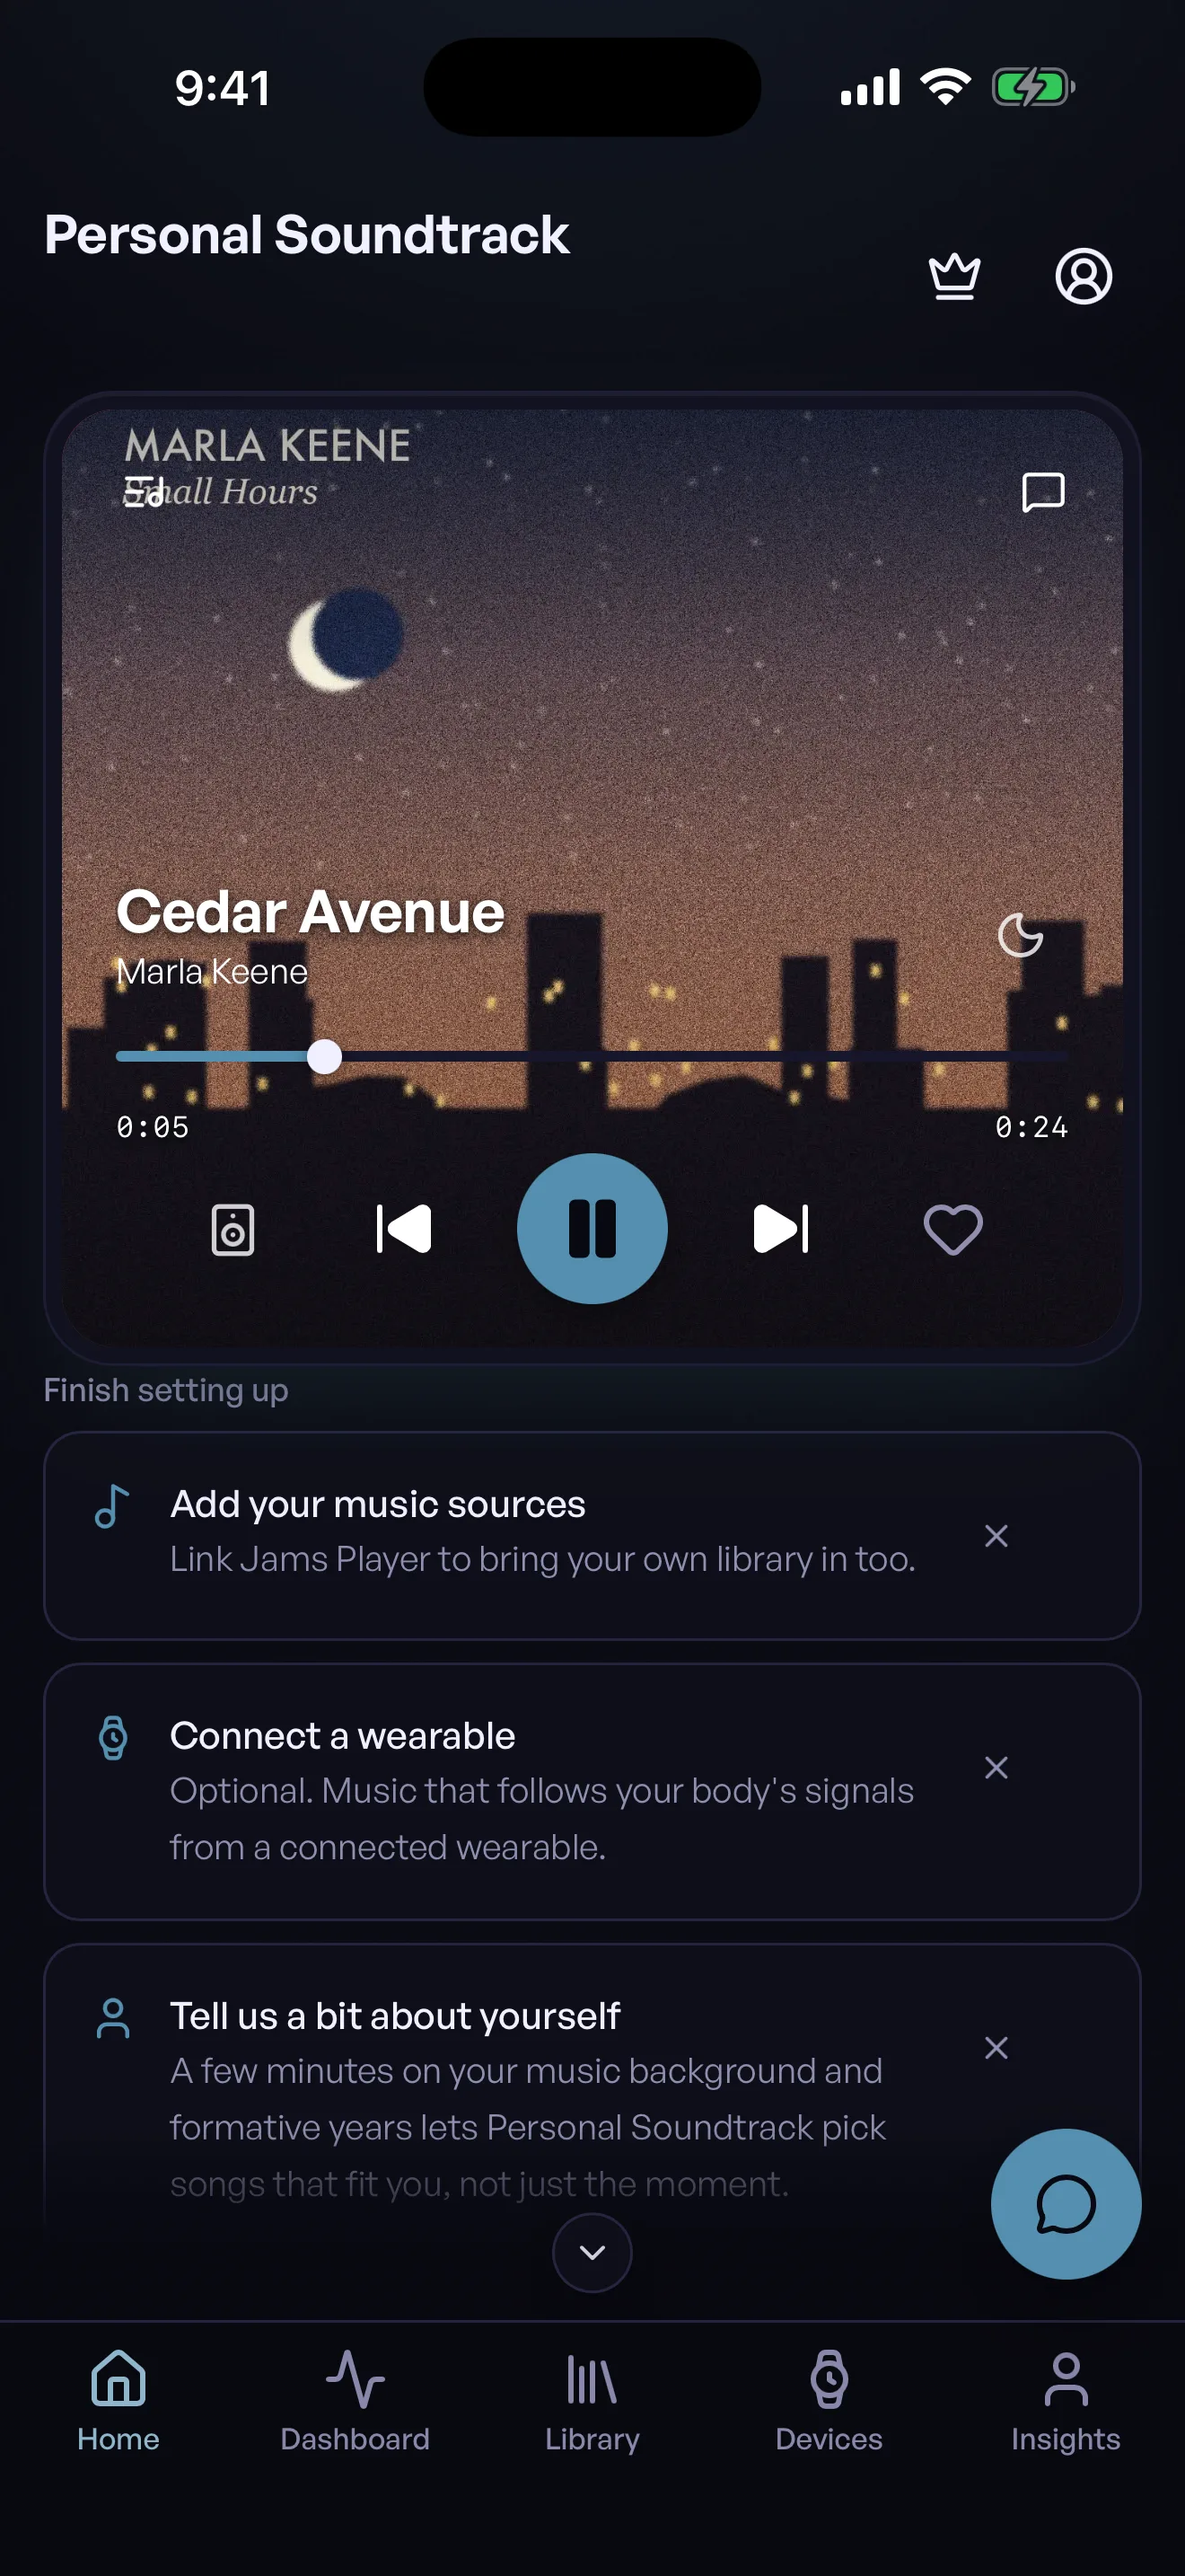
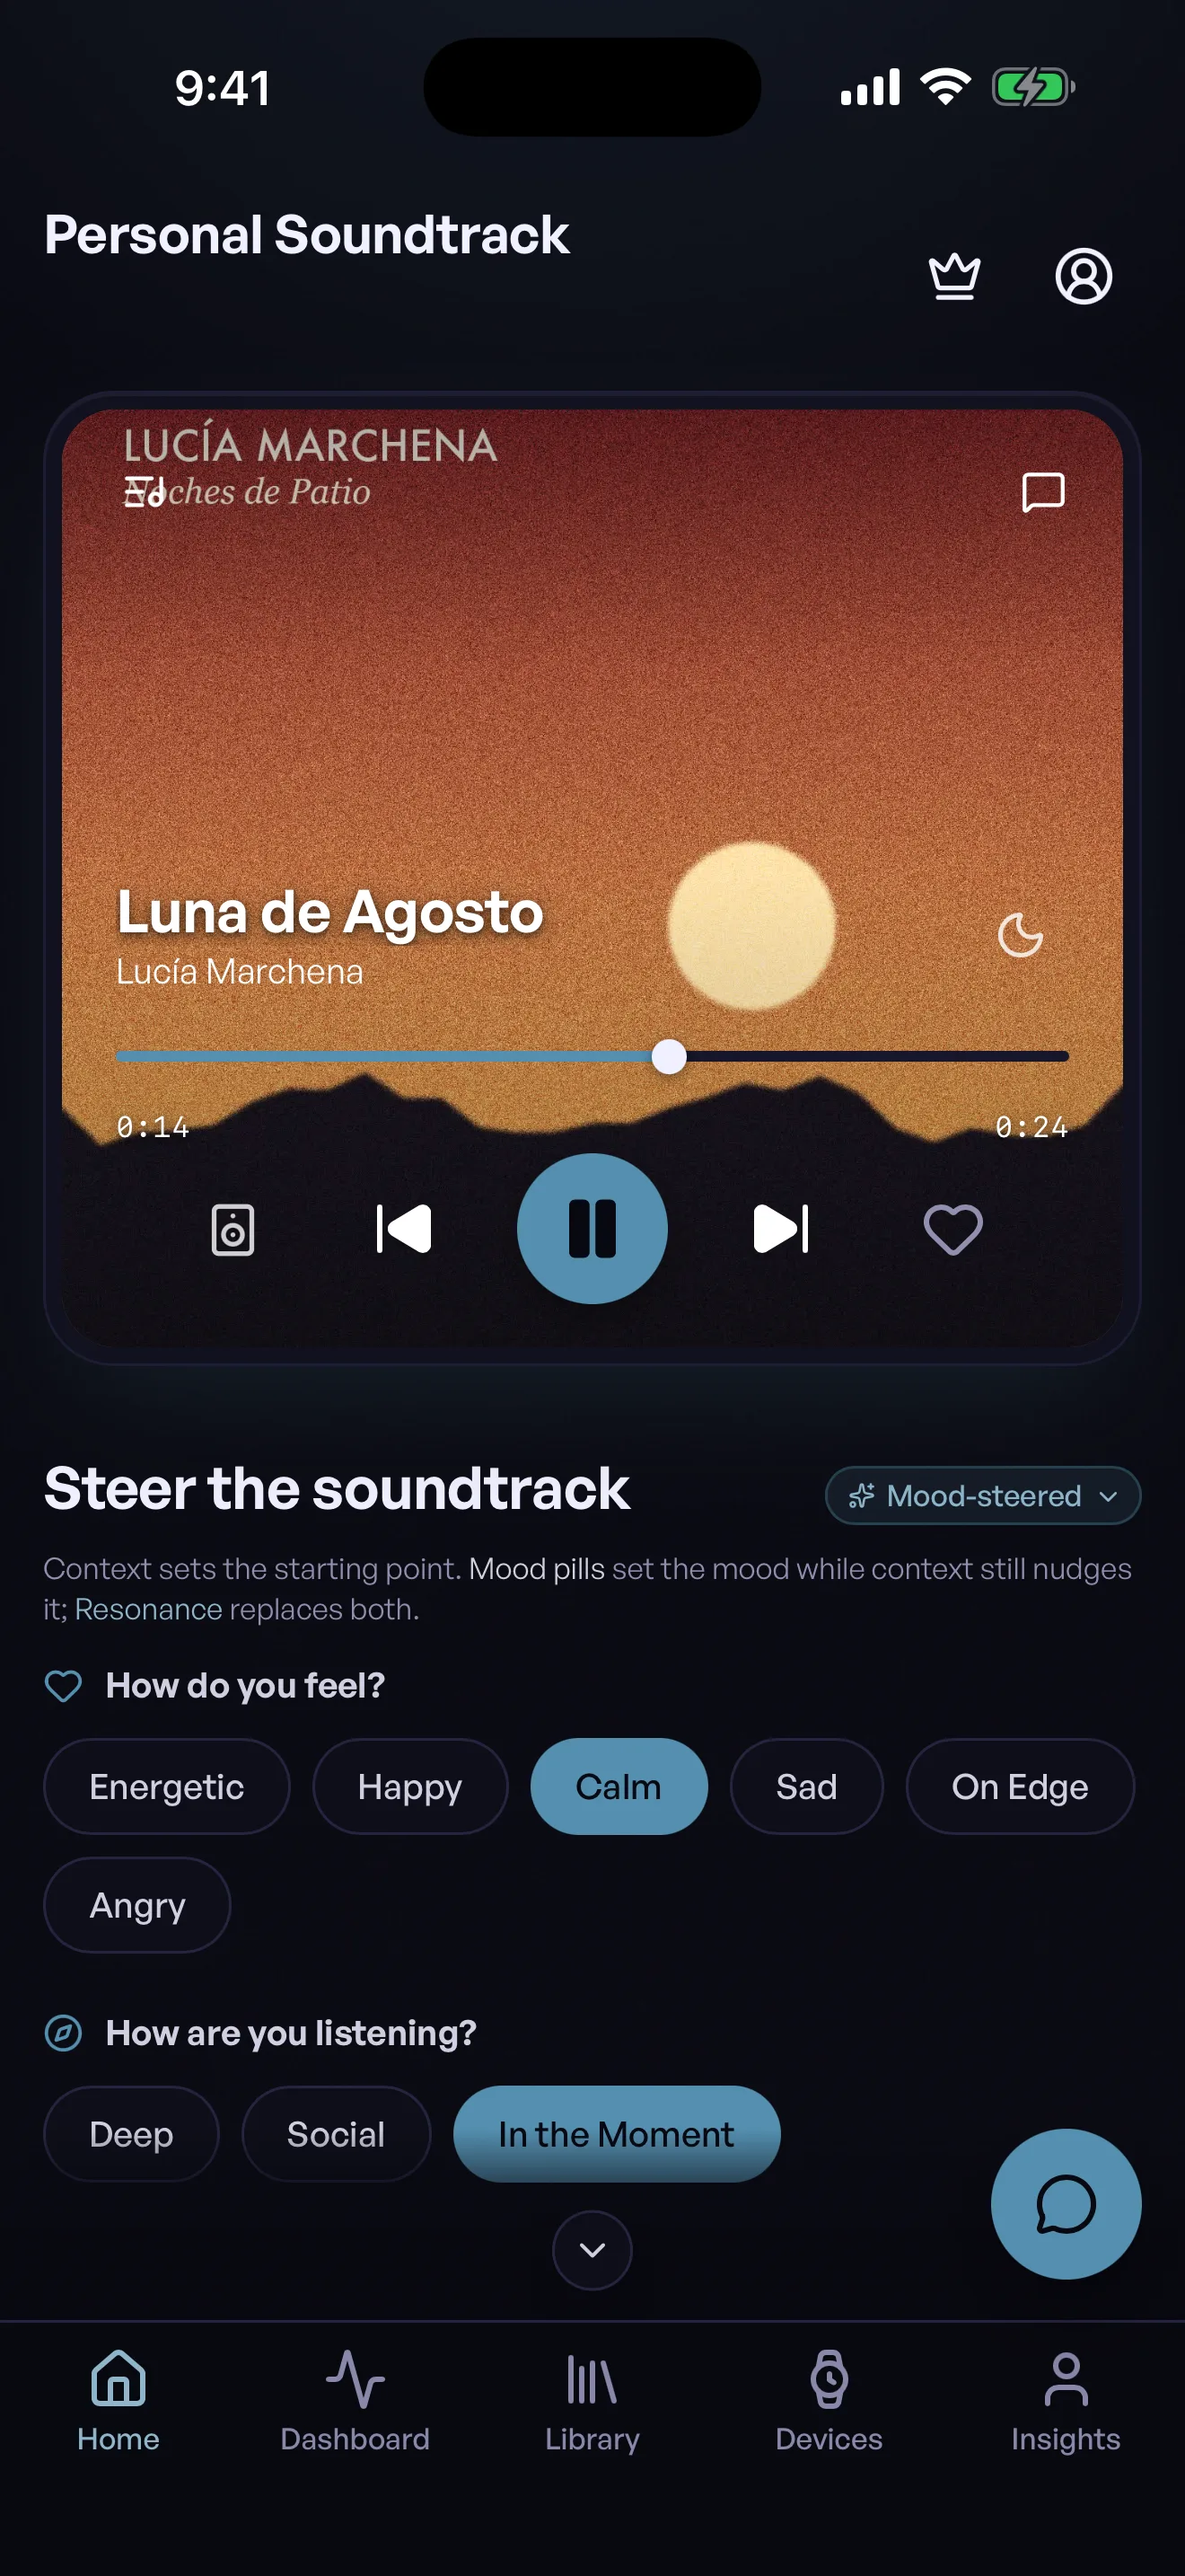
PS Home with mood choices

diff --git a/ps/index.html b/ps/index.html
@@ -32,7 +32,7 @@
 </div></section>
 <div id="moments" class="visually-hidden"></div>
 <section class="moment"><div class="wrap moment__inner"><div class="moment__copy"><span class="eyebrow">P1</span><h3 class="moment__title">After the workout</h3><p class="moment__sentence">Just finished a run? The picks come in brighter. Recovery day? Gentler.</p></div><div class="moment__media"><figure class="slot slot--phone" data-moment="P1" data-alt="Just finished a run? The picks come in brighter. Recovery day? Gentler."><span class="slot__id">P1</span><figcaption class="slot__note">Home now playing after activity + Your Context Activity / Heart Rate rows · founder device</figcaption><span class="slot__flag">real capture from the running app, or this slot stays empty</span></figure></div></div></section>
-<section class="moment moment--flip"><div class="wrap moment__inner"><div class="moment__media"><figure class="slot slot--phone" data-moment="P2"><picture><source type="image/webp" srcset="../captures/P2-iphone-dark.webp"><img src="../captures/P2-iphone-dark.png" alt="Open the app and your soundtrack is right there. Add your library and a wearable whenever you like." loading="lazy"></picture></figure></div><div class="moment__copy"><span class="eyebrow">P2</span><h3 class="moment__title">Open it and it plays</h3><p class="moment__sentence">Open the app and your soundtrack is right there. Add your library and a wearable whenever you like.</p></div></div></section>
+<section class="moment moment--flip"><div class="wrap moment__inner"><div class="moment__media"><figure class="slot slot--phone" data-moment="P2"><picture><source type="image/webp" srcset="../captures/P2-iphone-dark.webp"><img src="../captures/P2-iphone-dark.png" alt="Personal Soundtrack on iPhone: the Home screen with a song playing and mood choices below." loading="lazy"></picture></figure></div><div class="moment__copy"><span class="eyebrow">P2</span><h3 class="moment__title">Open it and it plays</h3><p class="moment__sentence">Open the app and your soundtrack is playing. Pick how you feel and how you are listening, and it follows.</p></div></div></section>
 <section class="moment"><div class="wrap moment__inner"><div class="moment__copy"><span class="eyebrow">P3</span><h3 class="moment__title">Your library, on your phone</h3><p class="moment__sentence">Bring your own music. Songs, artists and albums, searchable and sorted your way.</p></div><div class="moment__media"><figure class="slot slot--phone" data-moment="P3"><picture><source type="image/webp" srcset="../captures/P3-iphone-dark.webp"><img src="../captures/P3-iphone-dark.png" alt="Bring your own music. Songs, artists and albums, searchable and sorted your way." loading="lazy"></picture></figure></div></div></section>
 <section class="moment moment--flip"><div class="wrap moment__inner"><div class="moment__media"><figure class="slot slot--phone" data-moment="P4"><picture><source type="image/webp" srcset="../captures/P4-iphone-dark.webp"><img src="../captures/P4-iphone-dark.png" alt="Tap any song and it plays right away." loading="lazy"></picture></figure></div><div class="moment__copy"><span class="eyebrow">P4</span><h3 class="moment__title">Tap and play</h3><p class="moment__sentence">Tap any song and it plays right away.</p></div></div></section>
 <section id="scene" class="section"><div class="wrap"><span class="eyebrow">Signature interaction</span><h2 class="section__title">Set the scene</h2><p class="moment__sentence">Choose a moment and watch what the phone reads change, and the pick with it. Read on the phone.</p><div class="interaction"><div class="scene-board" data-scene-board><div class="scene-board__scenarios" role="group" aria-label="Set the scene"><button type="button" class="scene-board__scenario" data-scenario="After a run" aria-pressed="true">After a run</button><button type="button" class="scene-board__scenario" data-scenario="Focus hour" aria-pressed="false">Focus hour</button><button type="button" class="scene-board__scenario" data-scenario="Rainy evening" aria-pressed="false">Rainy evening</button></div><p class="scene-board__caption">Fixed, hand-picked example songs on this page. In the app, the readings are taken on your phone.</p><p class="scene-board__line">Now the pick is <span class="scene-board__track">Sunburnt</span> &mdash; <span class="scene-board__artist">The Saltmarsh Kids</span></p><p class="scene-board__line scene-board__line--read">What was read: <span class="scene-board__read">a run just finished, heart rate coming down, a clear evening outside.</span></p></div></div></div></section>

diff --git a/index.html b/index.html
@@ -70,7 +70,7 @@
 <h3>Set the scene. It finds the song.</h3>
 <p class="lede">Tell it where you are and how you feel, and it picks music that fits the moment, worked out on your phone, not in someone&rsquo;s cloud.</p>
 <a class="more" href="./ps/">More about Personal Soundtrack &rarr;</a></div>
-<div class="f-media"><figure class="slot slot--phone" data-moment="P2"><picture><source type="image/webp" srcset="./captures/P2-iphone-dark.webp"><img src="./captures/P2-iphone-dark.png" alt="Personal Soundtrack on iPhone: the Home screen with a song playing." loading="lazy"></picture></figure></div>
+<div class="f-media"><figure class="slot slot--phone" data-moment="P2"><picture><source type="image/webp" srcset="./captures/P2-iphone-dark.webp"><img src="./captures/P2-iphone-dark.png" alt="Personal Soundtrack on iPhone: the Home screen with a song playing and mood choices below." loading="lazy"></picture></figure></div>
 </div>
 <div class="feature flip">
 <div class="f-copy"><span class="tag" style="--a:var(--jp)"><img src="./marks/jp.30a206e2.svg" alt="" width="22" height="22">Jams Player</span>
